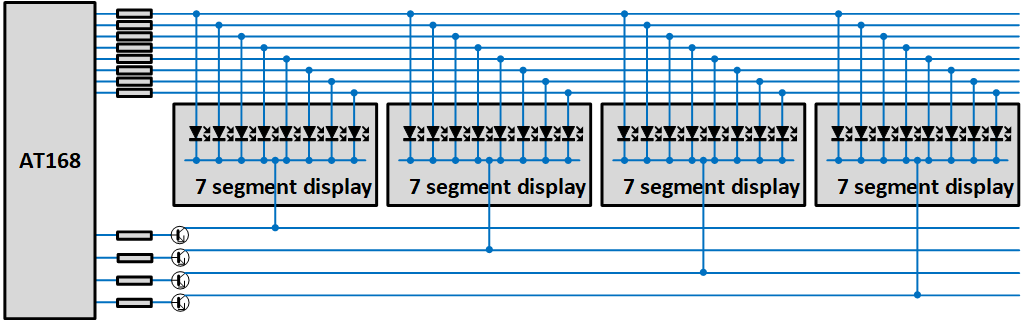
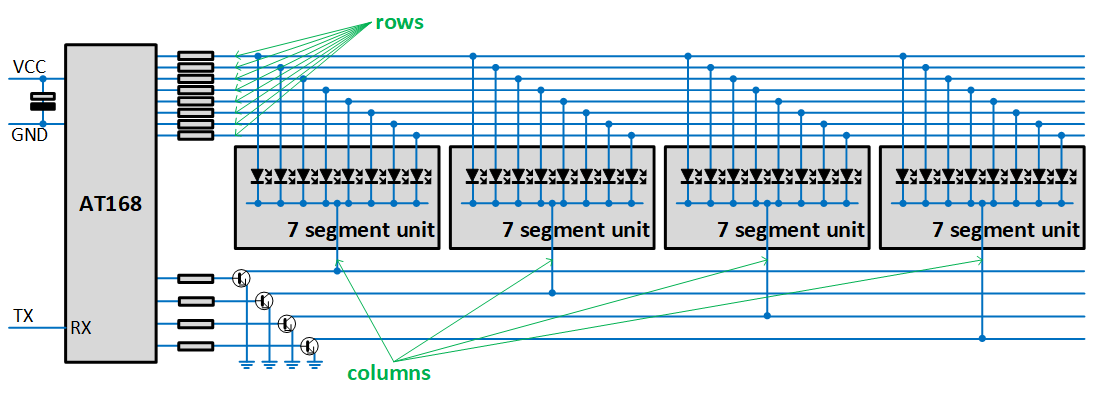
detailing electronics

diff --git a/electronics/readme.md b/electronics/readme.md
@@ -43,20 +43,37 @@ Sinking 8 LEDs via 1 output port is **not** ok, that would be 80mA where the max
 
 **Conclusion**
 We connect the four 7-segment displays in a row/column fashion. 
-The individual segments ("columns") can be hooked directly to an output pin of the ATmega, provided that the current limiting resistor limits the LED current and thus the sourcing via the pin to 10mA.
-The commons of the display ("rows"), need to sink, worst case, all 8 LEDs of the display. As a result, we use a transistor.
+The individual segments ("rows") can be hooked directly to an output pin of the ATmega, provided that the current limiting resistor limits the LED current and thus the sourcing via the pin to 10mA.
+The commons of the display ("columns"), need to sink, worst case, all 8 LED segments of a display unit. As a result, we use a transistor.
+The principle is depicted below, for the real schematic see section below.
 
 ![Display control](col-row.png)
 
 I decided to have current limiting resistors of 220 ohm.
 Red LEDs have a forward voltage of Vf=1.8. 
-With a host power of 3V3, the resistor drops 1.5, leading to a current of 6.8mA.
-With a host power of 5V, the resistor drops 3.2, leading to a current of 14.5mA.
+With an external voltage of 3V3, the resistor drops 1.5V, leading to a current of 6.8mA for one segment and 55mA for all 8.
+With an external voltage of 5V0, the resistor drops 3.2V, leading to a current of 14.5mA for one segment and 116mA for all 8.
 
-| host (V) | V_R (V)| I_R (R=220Ω) mA | I_display (8 LEDs) mA |
-|---------:|-------:|----------------:|----------------------:|
-|      3.3 |    1.5 |             6.8 |                    55 |
-|      5.0 |    3.2 |            14.5 |                   116 |
+| VCC | V_R (V)| I_R (mA) R=220Ω | I_common (mA) 8 LEDs |
+|----:|-------:|----------------:|---------------------:|
+| 3.3 |    1.5 |             6.8 |                   55 |
+| 5.0 |    3.2 |            14.5 |                  116 |
+
+I'm not completely sure about the dimension of the base resistor.
+
+![Transistor](transistor.png)
+
+If we assume I_C to be 55mA, and the gain (hFE, beta?) to be 100, then I_B is only 55mA/100 or 0.55mA.
+There is a voltage drop across BE in the transistor, which is typically V_BE=0.7V. The emitter is grounded so V_B=0.7V.
+The Arduino GPIO pin outputs VCC=3.3V, so we need a voltage drop over the base resistor from 3.3V to 0.7V or 2.6V.
+With Ohm's law we find R = V_R/I_R = 2.6 / 0.55m = 4k7Ω.
+
+| VCC | I_C (mA) | I_B (mA) β=100 | V_R (V) VCC-V_B | R (Ω) V_R/I_B) |
+|----:|---------:|---------------:|----------------:|---------------:|
+| 3.3 |       55 |           0.55 |            2.6  |           4727 |
+| 5.0 |      116 |           1.16 |            4.3  |           3706 |
+
+So, 3k3 seems save to make sure the transistor is saturated...
 
 
 ## Wiring
@@ -66,6 +83,10 @@ Note that we have 6+6 row/column pins, which will be used to drive 8 columns and
 We tried to group these in so-called ports so that a single SFR assignment suffices.
 
 ![Wiring](pinout.png)
+
+The breadboard prototype works, but the LEGO mindstorms 3V3 is on the edge.
+
+![Breadboard](breadboard.jpg)
 
 
 ## PCB production.
